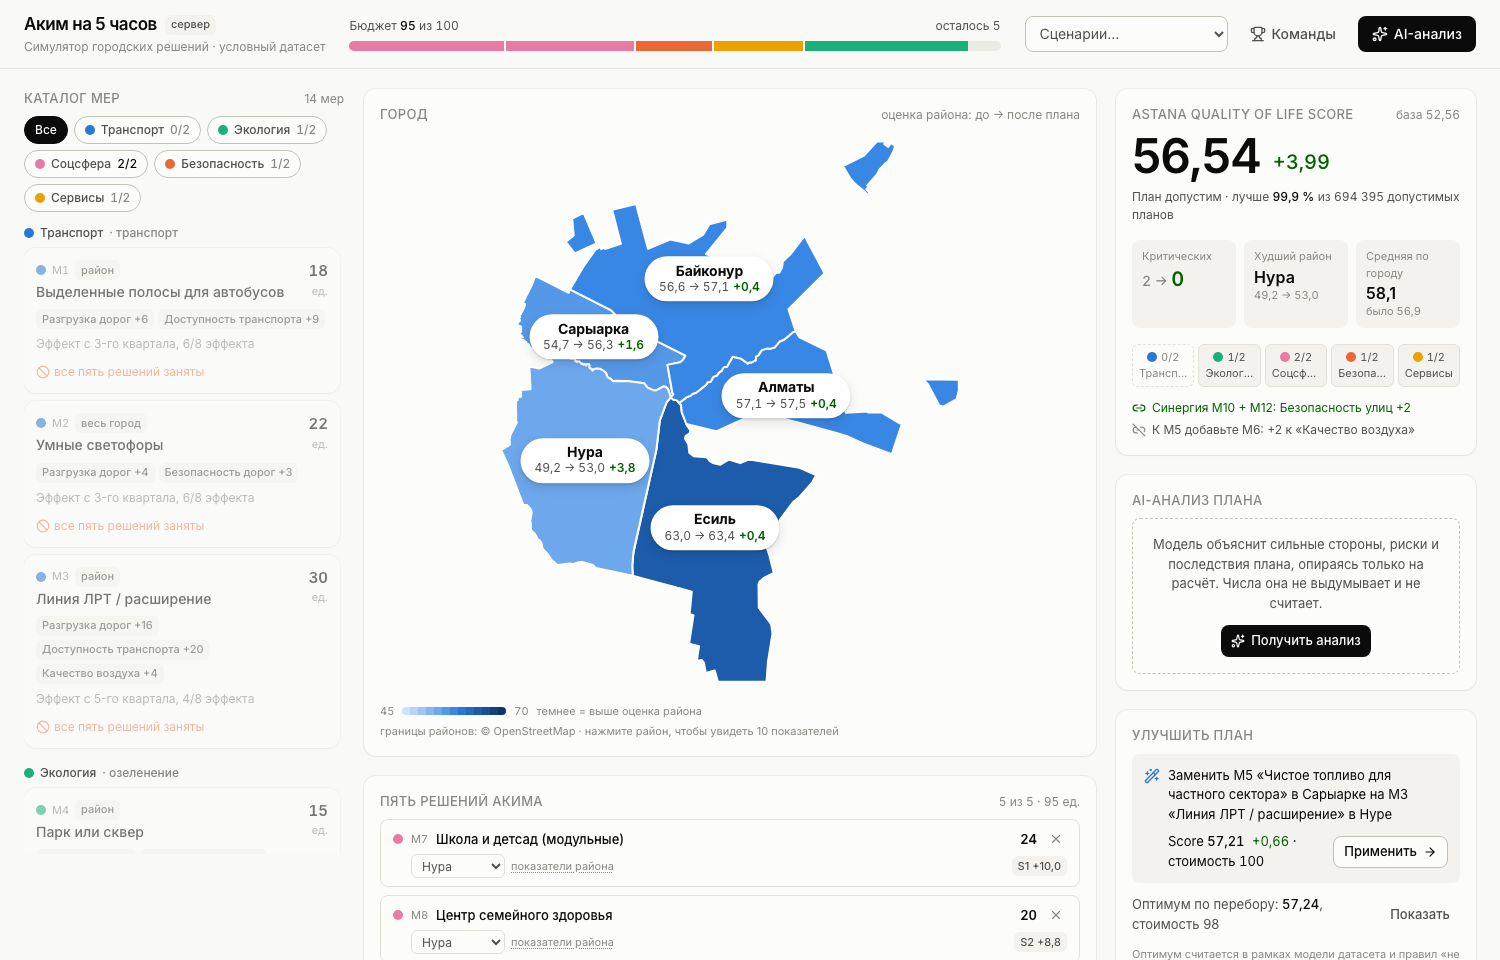
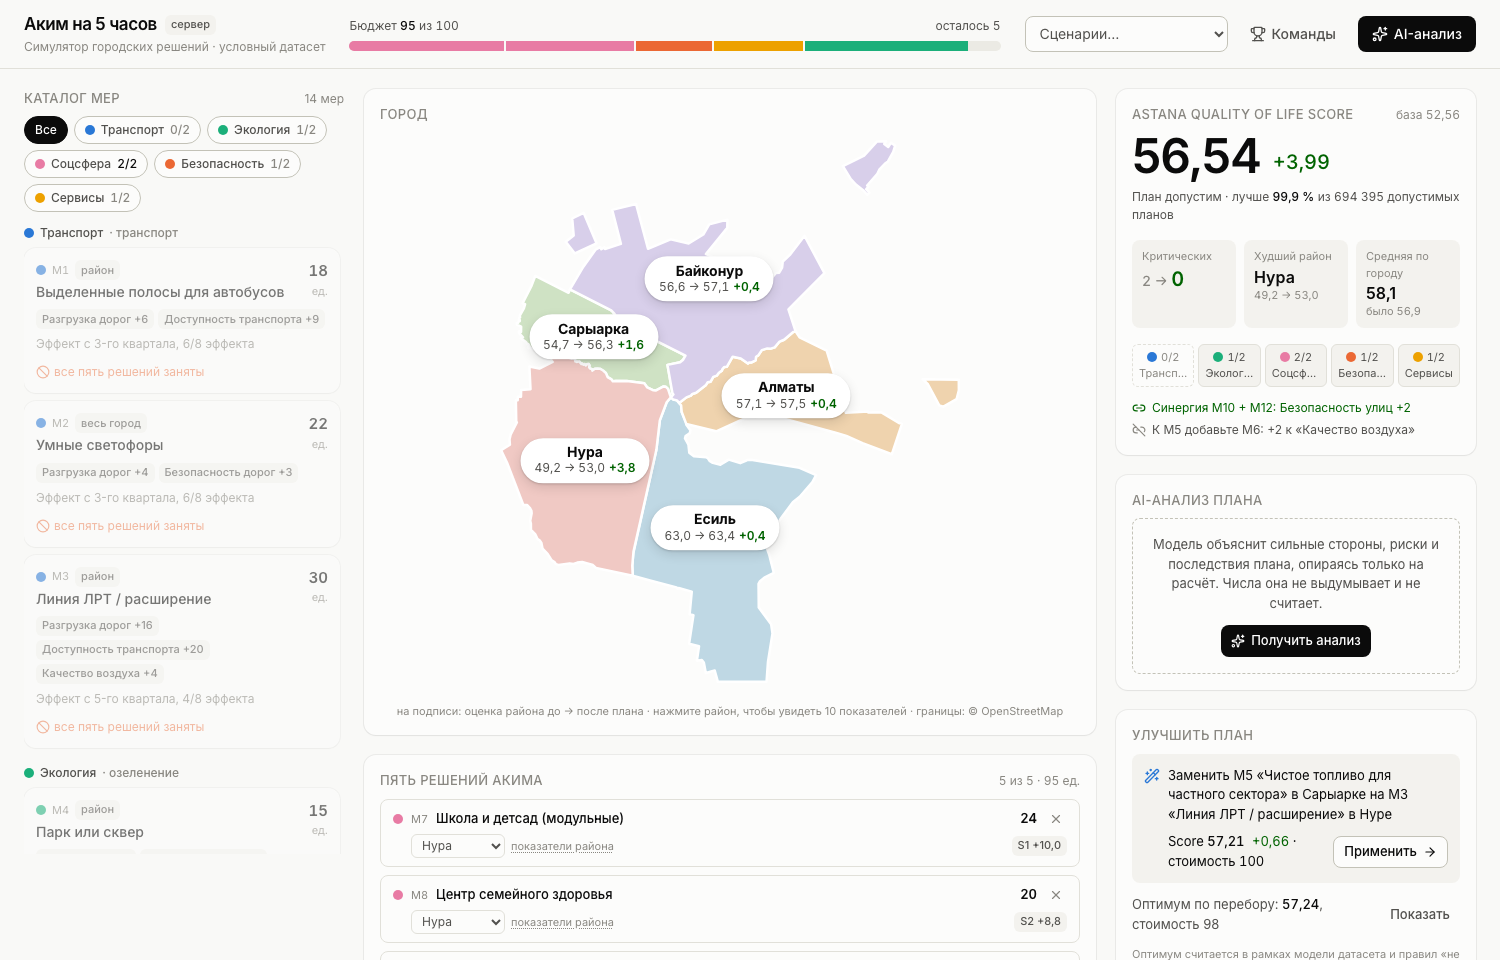
fix(product.v1): colored Astana districts, no page dimming on select
Each district keeps its own Astana Scheme color; the selected one gets the strong color and a bold label in that color. District indicators open inline under the map instead of a drawer with a dark overlay; hover no longer darkens shapes.

Claude-Session: https://claude.ai/code/session_01LPps4ywwmdjZtk4PxTmKFv

diff --git a/product.v1/frontend/src/components/city/CityMap.tsx b/product.v1/frontend/src/components/city/CityMap.tsx
@@ -3,13 +3,21 @@ import { TriangleAlert } from 'lucide-react'
 import type { Catalog, DistrictId } from '../../data/dataset'
 import type { DistrictResult } from '../../api'
 import { ASTANA_DISTRICTS, ASTANA_VIEWBOX } from '../../data/astanaGeometry'
-import { DISTRICT_SCALE_MAX, DISTRICT_SCALE_MIN, DISTRICT_SCALE_STEPS, districtFill } from '../../lib/scales'
 import { f1, signed } from '../../lib/format'
 import { SectionTitle } from '../ui'
 
 // Реальные границы пяти районов (OpenStreetMap, упрощено ~40 м), см.
-// data/astanaGeometry.ts. Заливка — оценка района (темнее = выше), подписи —
-// HTML-«таблетки» поверх SVG: они же кнопки выбора района.
+// data/astanaGeometry.ts. У каждого района свой цвет (как в Astana Scheme):
+// спокойный в обычном состоянии, насыщенный у выбранного. Изменение оценки
+// района показывается на подписи-«таблетке»; она же кнопка выбора района.
+
+export const DISTRICT_COLORS: Record<DistrictId, { base: string; strong: string }> = {
+  esil: { base: '#BFD8E4', strong: '#1F7FA6' },
+  almaty: { base: '#EFD3AE', strong: '#A8661A' },
+  saryarka: { base: '#CFE2C4', strong: '#3F7A37' },
+  baikonur: { base: '#D8CFEA', strong: '#6E56A8' },
+  nura: { base: '#F0C9C4', strong: '#A4463F' },
+}
 
 interface Props {
   catalog: Catalog
@@ -34,17 +42,17 @@ export function CityMap({ catalog, districts, showAfter, selected, onSelect }: P
 
   return (
     <section aria-label="Карта районов" className="card p-4">
-      <SectionTitle aside={showAfter ? 'оценка района: до → после плана' : 'оценка района сейчас'}>Город</SectionTitle>
+      <SectionTitle aside={selected ? 'нажмите ещё раз, чтобы снять выбор' : undefined}>Город</SectionTitle>
 
       <div className="astana-map" role="group" aria-label="Пять районов Астаны">
         <svg viewBox={`0 0 ${VW} ${VH}`} className="block h-auto w-full" aria-hidden="true">
-          {shapes.map(({ d, value, isSel }) => (
+          {shapes.map(({ d, isSel }) => (
             <path
               key={d.id}
               d={ASTANA_DISTRICTS[d.id].path}
-              fill={districtFill(value)}
-              stroke={isSel ? '#0b0b0b' : '#ffffff'}
-              strokeWidth={isSel ? 3 : 2}
+              fill={isSel ? DISTRICT_COLORS[d.id].strong : DISTRICT_COLORS[d.id].base}
+              stroke="#ffffff"
+              strokeWidth={isSel ? 3.5 : 2.5}
               strokeLinejoin="round"
               vectorEffect="non-scaling-stroke"
               className="astana-dist"
@@ -61,7 +69,7 @@ export function CityMap({ catalog, districts, showAfter, selected, onSelect }: P
               key={d.id}
               type="button"
               className="astana-pill"
-              style={{ left: `${(lx / VW) * 100}%`, top: `${(ly / VH) * 100}%` }}
+              style={{ left: `${(lx / VW) * 100}%`, top: `${(ly / VH) * 100}%`, ...(isSel ? { borderColor: DISTRICT_COLORS[d.id].strong, color: DISTRICT_COLORS[d.id].strong } : {}) }}
               aria-pressed={isSel}
               aria-label={`${d.name}: оценка ${showAfter ? `${f1(r.beforeScore)} → ${f1(r.afterScore)}` : f1(value)}${crit ? `, критических показателей ${crit}` : ''}`}
               onClick={() => onSelect(d.id)}
@@ -86,17 +94,9 @@ export function CityMap({ catalog, districts, showAfter, selected, onSelect }: P
         })}
       </div>
 
-      <div className="mt-3 flex flex-wrap items-center justify-between gap-x-3 gap-y-1 text-[11px] text-ink-3">
-        <div className="flex items-center gap-2">
-          <span className="tnum">{DISTRICT_SCALE_MIN}</span>
-          <div className="flex h-2 overflow-hidden rounded-sm" aria-hidden="true">
-            {DISTRICT_SCALE_STEPS.map((c) => <span key={c} className="w-2" style={{ background: c }} />)}
-          </div>
-          <span className="tnum">{DISTRICT_SCALE_MAX}</span>
-          <span>темнее = выше оценка района</span>
-        </div>
-        <span className={clsx(selected && 'text-ink-2')}>границы районов: © OpenStreetMap · нажмите район, чтобы увидеть 10 показателей</span>
-      </div>
+      <p className="mt-3 text-center text-[11px] text-ink-3">
+        {showAfter ? 'на подписи: оценка района до → после плана' : 'на подписи: оценка района сейчас'} · нажмите район, чтобы увидеть 10 показателей · границы: © OpenStreetMap
+      </p>
     </section>
   )
 }

diff --git a/product.v1/frontend/src/App.tsx b/product.v1/frontend/src/App.tsx
@@ -14,7 +14,8 @@ import { AiPanel, type AiStatus } from './components/result/AiPanel'
 import { ImproveCard } from './components/result/ImproveCard'
 import { EventCard } from './components/result/EventCard'
 import { LeaderboardDrawer } from './components/LeaderboardDrawer'
-import { Drawer } from './components/ui'
+import { X } from 'lucide-react'
+import { Button } from './components/ui'
 
 export type PlanStatus = 'empty' | 'draft' | 'invalid' | 'valid'
 
@@ -101,10 +102,10 @@ export default function App() {
 
   // ---- Панели ------------------------------------------------------------
   const [selectedDistrict, setSelectedDistrict] = useState<DistrictId | null>(null)
-  const [districtOpen, setDistrictOpen] = useState(false)
   const [leaderboardOpen, setLeaderboardOpen] = useState(false)
-  const openDistrict = (id: DistrictId) => { setSelectedDistrict(id); setDistrictOpen(true) }
-  const onMapSelect = (id: DistrictId) => openDistrict(id)
+  // Показатели района открываются под картой, без затемнения страницы.
+  const openDistrict = (id: DistrictId) => setSelectedDistrict(id)
+  const onMapSelect = (id: DistrictId) => setSelectedDistrict((cur) => (cur === id ? null : id))
 
   const applyPreset = (id: string) => {
     if (id === '__clear') { plan.clear(); return }
@@ -138,6 +139,15 @@ export default function App() {
 
         <div className="space-y-5">
           <CityMap catalog={catalog} districts={districtsForMap} showAfter={showAfter} selected={selectedDistrict} onSelect={onMapSelect} />
+          {selectedResult && (
+            <section aria-label="Показатели района" className="card animate-fade-up p-4">
+              <div className="mb-2 flex items-center justify-between gap-3">
+                <h2 className="text-base font-semibold">{catalog.districts.find((d) => d.id === selectedResult.districtId)?.name}</h2>
+                <Button variant="ghost" size="sm" aria-label="Закрыть показатели района" onClick={() => setSelectedDistrict(null)}><X className="size-4" /></Button>
+              </div>
+              <DistrictDetail catalog={catalog} district={selectedResult} showAfter={showAfter} />
+            </section>
+          )}
           <Portfolio
             catalog={catalog}
             decisions={plan.decisions}
@@ -163,10 +173,6 @@ export default function App() {
           </p>
         </div>
       </main>
-
-      <Drawer open={districtOpen && !!selectedResult} onClose={() => setDistrictOpen(false)} title={selectedResult ? catalog.districts.find((d) => d.id === selectedResult.districtId)?.name : ''}>
-        {selectedResult && <DistrictDetail catalog={catalog} district={selectedResult} showAfter={showAfter} />}
-      </Drawer>
 
       <LeaderboardDrawer
         open={leaderboardOpen}

diff --git a/product.v1/frontend/src/index.css b/product.v1/frontend/src/index.css
@@ -117,10 +117,7 @@
 }
 .astana-dist {
   cursor: pointer;
-  transition: fill 0.5s, filter 0.15s;
-}
-.astana-dist:hover {
-  filter: brightness(0.93);
+  transition: fill 0.25s;
 }
 .astana-pill {
   position: absolute;
@@ -162,8 +159,11 @@
   font-variant-numeric: tabular-nums;
 }
 .astana-pill[aria-pressed='true'] {
-  border-color: #0b0b0b;
   z-index: 1;
+}
+.astana-pill[aria-pressed='true'] .astana-pill-score {
+  color: inherit;
+  font-weight: 600;
 }
 .astana-pill[aria-pressed='true'] .astana-pill-name {
   font-weight: 800;

diff --git a/product.v1/frontend/README.md b/product.v1/frontend/README.md
@@ -72,6 +72,7 @@ src/
 - Недоступная мера объясняет, почему: бюджет, лимит направления, несовместимость.
 - При выборе района показываются текущие значения нужного показателя, худший
   район подсвечен как «нужнее всего».
-- Оценка района на карте кодируется одним оттенком (темнее = выше); критическое
-  состояние помечается иконкой и подписью, а не только цветом.
+- Карта — реальные границы районов (OpenStreetMap); у каждого района свой цвет,
+  выбранный заливается насыщенным цветом, страница не затемняется. Оценка района
+  «до → после» написана на подписи; критическое состояние помечается иконкой.
 - AI-пояснение опирается на факты расчёта; без ключа модели работает шаблон.
